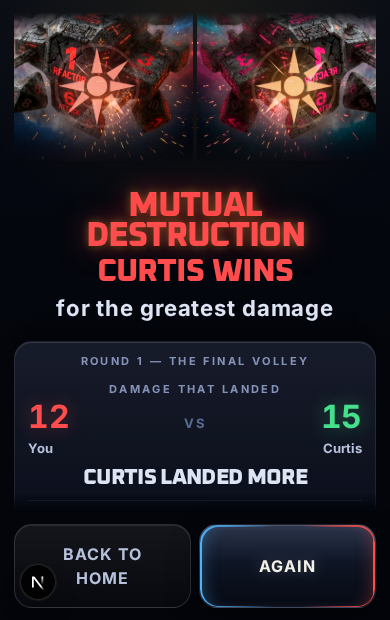
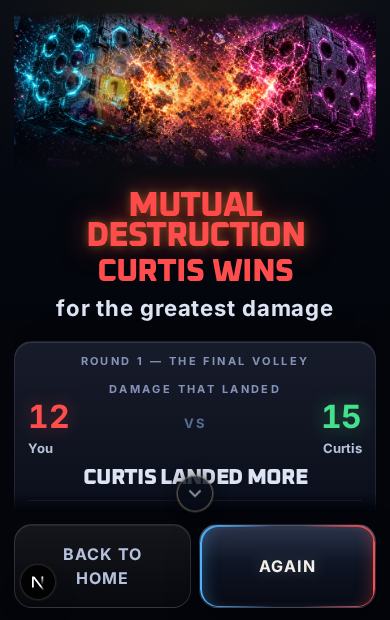
Make the recap caret easier to see and add phone shots.
The chevron sits in the gap above Back / Again so it does not cover
the last ledger row. Mutual-win shots show it before the scroll and
gone after.

Changed region(s): [[0.0308, 0.0, 0.9846, 0.2758], [0.4308, 0.7355, 0.5538, 0.8274]]

diff --git a/app/globals.css b/app/globals.css
@@ -2545,7 +2545,7 @@ button {
   display: flex;
   flex-direction: column;
   gap: 1rem;
-  padding-bottom: 0.5rem;
+  padding-bottom: 2rem;
 }
 
 .recap-head {
@@ -2945,18 +2945,18 @@ button {
 .recap-more-below {
   position: absolute;
   left: 50%;
-  bottom: 0.2rem;
+  bottom: 0.05rem;
   z-index: 2;
   display: grid;
   place-items: center;
-  width: 32px;
-  height: 32px;
+  width: 36px;
+  height: 36px;
   border-radius: 999px;
-  border: 1px solid rgb(255 255 255 / 0.22);
-  background: rgb(8 12 24 / 0.82);
+  border: 1px solid rgb(255 255 255 / 0.32);
+  background: rgb(8 12 24 / 0.88);
   box-shadow:
-    0 0 14px rgb(0 0 0 / 0.55),
-    0 0 0 1px rgb(255 210 61 / 0.14);
+    0 0 16px rgb(0 0 0 / 0.6),
+    0 0 0 1px rgb(255 210 61 / 0.28);
   color: var(--color-hull-100);
   pointer-events: none;
   transform: translateX(-50%);

diff --git a/components/BattleRecap.tsx b/components/BattleRecap.tsx
@@ -455,7 +455,7 @@ export function BattleRecap({
           data-recap-more-below={moreBelow ? "shown" : "hidden"}
           aria-hidden="true"
         >
-          <svg viewBox="0 0 24 24" width="18" height="18">
+          <svg viewBox="0 0 24 24" width="20" height="20">
             <path
               d="M6 9l6 6 6-6"
               fill="none"
